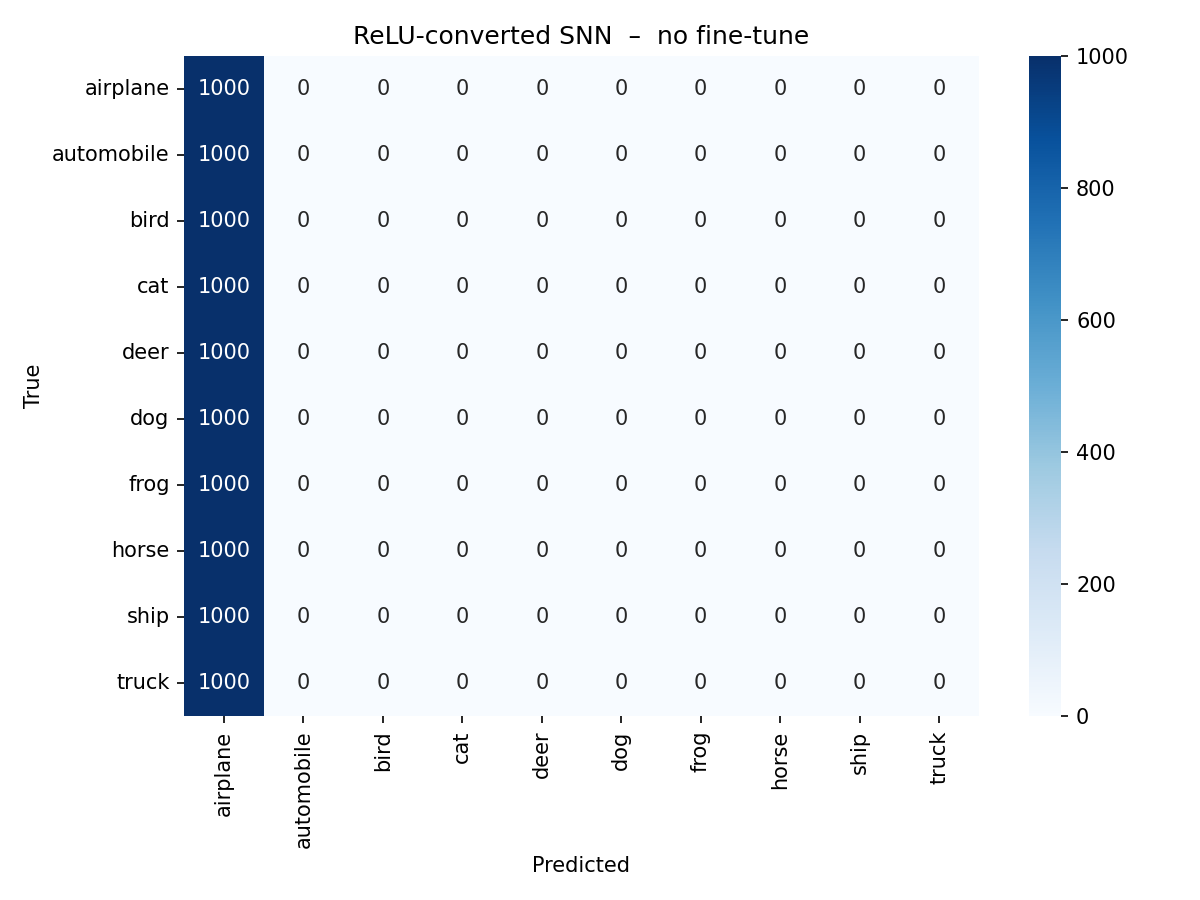
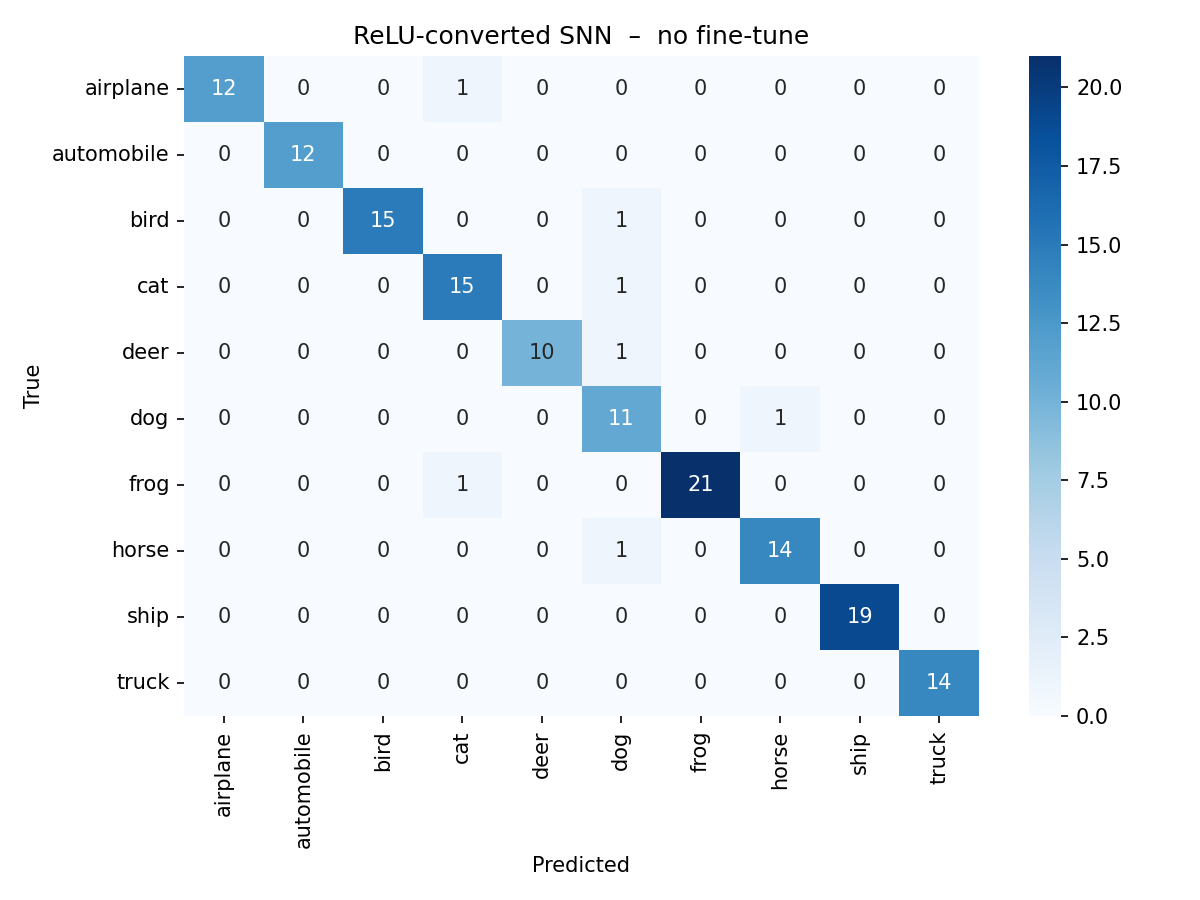
evaluate_model worked

diff --git a/evaluate_model.py b/evaluate_model.py
@@ -26,14 +26,22 @@ parser = argparse.ArgumentParser(description="Evaluate ReLU-converted SNN weight
 parser.add_argument("--data_name",   type=str, default="CIFAR10")
 parser.add_argument("--model_name",  type=str, default="VGG_BN_example")
 parser.add_argument("--logging_dir", type=str, default="./logs/")
-parser.add_argument("--batch_size",  type=int, default=256)
+
 parser.add_argument("--num_samples", type=int, default=0,
                     help="0 = whole test set, else first N")
+parser.add_argument('--batch_size', type=int, default=10, help='Batch size')
+parser.add_argument('--model_type', type=str, default='SNN', help='(SNN|ReLU)')
+parser.add_argument('--noise', type=float, default=0.0, help='Noise std.dev.')
+parser.add_argument('--time_bits', type=int, default=0, help='number of bits to represent time. 0 -disabled')
+parser.add_argument('--weight_bits', type=int, default=0, help='number of bits to represent weights. 0 -disabled')
+parser.add_argument('--w_min', type=float, default=-1.0, help='w_min to use if weight_bits is enabled')
+parser.add_argument('--w_max', type=float, default=1.0, help='w_max to use if weight_bits is enabled')
+parser.add_argument('--latency_quantiles', type=float, default=0.0, help='Number of quantiles to take into account when calculating t_max. 0 -disabled')
+parser.add_argument('--mode', type=str, default='', help='Ignore: A hack to address a bug in argsparse during debugging')
 args = parser.parse_args()
 
 args.model_name = args.data_name + "-" + args.model_name
-CIFAR10_NAMES = ['airplane', 'automobile', 'bird', 'cat', 'deer',
-                 'dog', 'frog', 'horse', 'ship', 'truck']
+CIFAR10_NAMES = ['airplane', 'automobile', 'bird', 'cat', 'deer', 'dog', 'frog', 'horse', 'ship', 'truck']
 
 # --------------------------------------------------
 def main():
@@ -45,29 +53,44 @@ def main():
     optimizer = get_optimizer(1e-6)          # not used for inference
     xn_path   = os.path.join(args.logging_dir, args.model_name + "_X_n.pkl")
     X_n       = pkl.load(open(xn_path, 'rb')) if os.path.exists(xn_path) else 1000
-    robustness_params = {'noise': 0, 'time_bits': 0, 'weight_bits': 0,
-                         'w_min': -1.0, 'w_max': 1.0, 'latency_quantiles': 0.0}
+    robustness_params={
+    'noise':args.noise,
+    'time_bits':args.time_bits,
+    'weight_bits': args.weight_bits,
+    'w_min': args.w_min,
+    'w_max': args.w_max,
+    'latency_quantiles':args.latency_quantiles
+}
 
-    model = create_vgg_model_SNN(
-        [64, 64, 'pool', 128, 128, 'pool', 256, 256, 256, 'pool',
-         512, 512, 512, 'pool', 512, 512, 512, 'pool'],
-        (3, 3), [512], data, optimizer, X_n=X_n,
-        robustness_params=robustness_params)
+
+    layers2D = [64, 64, 'pool', 128, 128, 'pool', 256, 256, 256, 'pool', 512, 512, 512, 'pool', 512, 512, 512, 'pool']
+    layers1D=[512]
+    kernel_size=(3,3)
+    regularizer = None
+    initializer = 'glorot_uniform'
+    model = create_vgg_model_SNN(layers2D, kernel_size, layers1D, data, optimizer, robustness_params=robustness_params,
+                                     kernel_regularizer=regularizer, kernel_initializer=initializer)
 
     # ---------- load the ReLU-converted weights ----------
-    weights_file = os.path.join(args.logging_dir, args.model_name + "_preprocessed.h5")
-    if not os.path.exists(weights_file):
-        logging.error("Converted weights not found: %s", weights_file)
-        sys.exit(1)
 
-    model.load_weights(weights_file, by_name=True)
-    logging.info("Loaded ReLU-converted weights from %s", weights_file)
+    X_n=pkl.load(open(args.logging_dir + args.model_name + '_X_n.pkl', 'rb'))
+    model.load_weights(args.logging_dir + args.model_name + '_preprocessed.h5', by_name=True)
+    logging.info("Loaded ReLU-converted weights from %s"+ args.logging_dir + args.model_name + '_preprocessed.h5')
+    if 'SNN' in args.model_type:
+        logging.info("#### Setting SNN intervals ####")
+        # Set parameters of SNN network: t_min_prev, t_min, t_max.
+        t_min, t_max = 0, 1  # for the input layer
+        for layer in model.layers:
+            if 'conv' in layer.name or 'dense' in layer.name:
+                t_min, t_max = layer.set_params(t_min, t_max)
 
     # ---------- evaluate ----------
     num = args.num_samples if args.num_samples else len(data.y_test)
     x, y = data.x_test[:num], data.y_test[:num]
 
-    dataset = tf.data.Dataset.from_tensor_slices((x, y)).batch(args.batch_size)
+    N= 150                                   # << change here if you want more/less
+    dataset = tf.data.Dataset.from_tensor_slices((data.x_test[:N], data.y_test[:N])) \
+                            .batch(args.batch_size)
     preds, gts = [], []
     for xb, yb in dataset:
         out = model(xb, training=False)

diff --git a/main.py b/main.py
@@ -27,7 +27,7 @@ parser.add_argument('--model_name', type=str, default='FC2', help='Should contai
 parser.add_argument('--lr', type=float, default=0.0005, help='Learning rate')
 parser.add_argument('--batch_size', type=int, default=350, help='Batch size')
 parser.add_argument('--epochs', type=int, default=25, help='Epochs. 0 -skip training')
-parser.add_argument('--testing', type=strtobool, default=True, help='Execute testing.')
+parser.add_argument('--testing', type=strtobool, default=False, help='Execute testing.')
 parser.add_argument('--load', type=str, default='False', help='Load before training. (True|False|custom_name.h5)')
 parser.add_argument('--save', type=strtobool, default=False, help='Store after training.')
 # Robustness parameters:
@@ -89,9 +89,9 @@ if 'VGG' in args.model_name:
     if 'SNN' in args.model_type:
         model = create_vgg_model_SNN(layers2D, kernel_size, layers1D, data, optimizer, robustness_params=robustness_params,
                                      kernel_regularizer=regularizer, kernel_initializer=initializer)
-    if 'ReLU' in args.model_type:
-        model = create_vgg_model_ReLU (layers2D, kernel_size, layers1D, data, BN=BN, optimizer=optimizer,
-                                       kernel_regularizer=regularizer, kernel_initializer=initializer)
+    # if 'ReLU' in args.model_type:
+    #     model = create_vgg_model_ReLU (layers2D, kernel_size, layers1D, data, BN=BN, optimizer=optimizer,
+    #                                    kernel_regularizer=regularizer, kernel_initializer=initializer)
 if model is None:
     print('Please specify a valid model. Exiting.')
     exit(1)
@@ -100,12 +100,12 @@ model.last_dense = list(filter(lambda x : 'dense' in x.name, model.layers))[-1]
 
 if args.load != 'False':
     logging.info("#### Loading weights ####")
-    if 'ReLU' in args.model_type:
-        # Load weights
-        if args.load == 'True':  # automatic name
-            model.load_weights(args.logging_dir + args.model_name + '_weights.h5', by_name=True)
-        else:  # custom name
-            model.load_weights(args.logging_dir + args.load, by_name=True)
+    # if 'ReLU' in args.model_type:
+    #     # Load weights
+    #     if args.load == 'True':  # automatic name
+    #         model.load_weights(args.logging_dir + args.model_name + '_weights.h5', by_name=True)
+    #     else:  # custom name
+    #         model.load_weights(args.logging_dir + args.load, by_name=True)
     if 'SNN' in args.model_type:
         # Load X ranges
         if os.path.exists(args.logging_dir + args.model_name + '_X_n.pkl'):
@@ -116,6 +116,7 @@ if args.load != 'False':
         logging.info("#### Loading Weights... ####")
         model.load_weights(args.logging_dir + args.model_name + '_preprocessed.h5', by_name=True)
 
+
 if 'SNN' in args.model_type:
     logging.info("#### Setting SNN intervals ####")
     # Set parameters of SNN network: t_min_prev, t_min, t_max.
@@ -123,7 +124,6 @@ if 'SNN' in args.model_type:
     for layer in model.layers:
         if 'conv' in layer.name or 'dense' in layer.name:
             t_min, t_max = layer.set_params(t_min, t_max)
-
 if args.testing:
     logging.info("#### Initial test set accuracy testing ####")
     CIFAR10_NAMES = ['airplane', 'automobile', 'bird', 'cat', 'deer',
